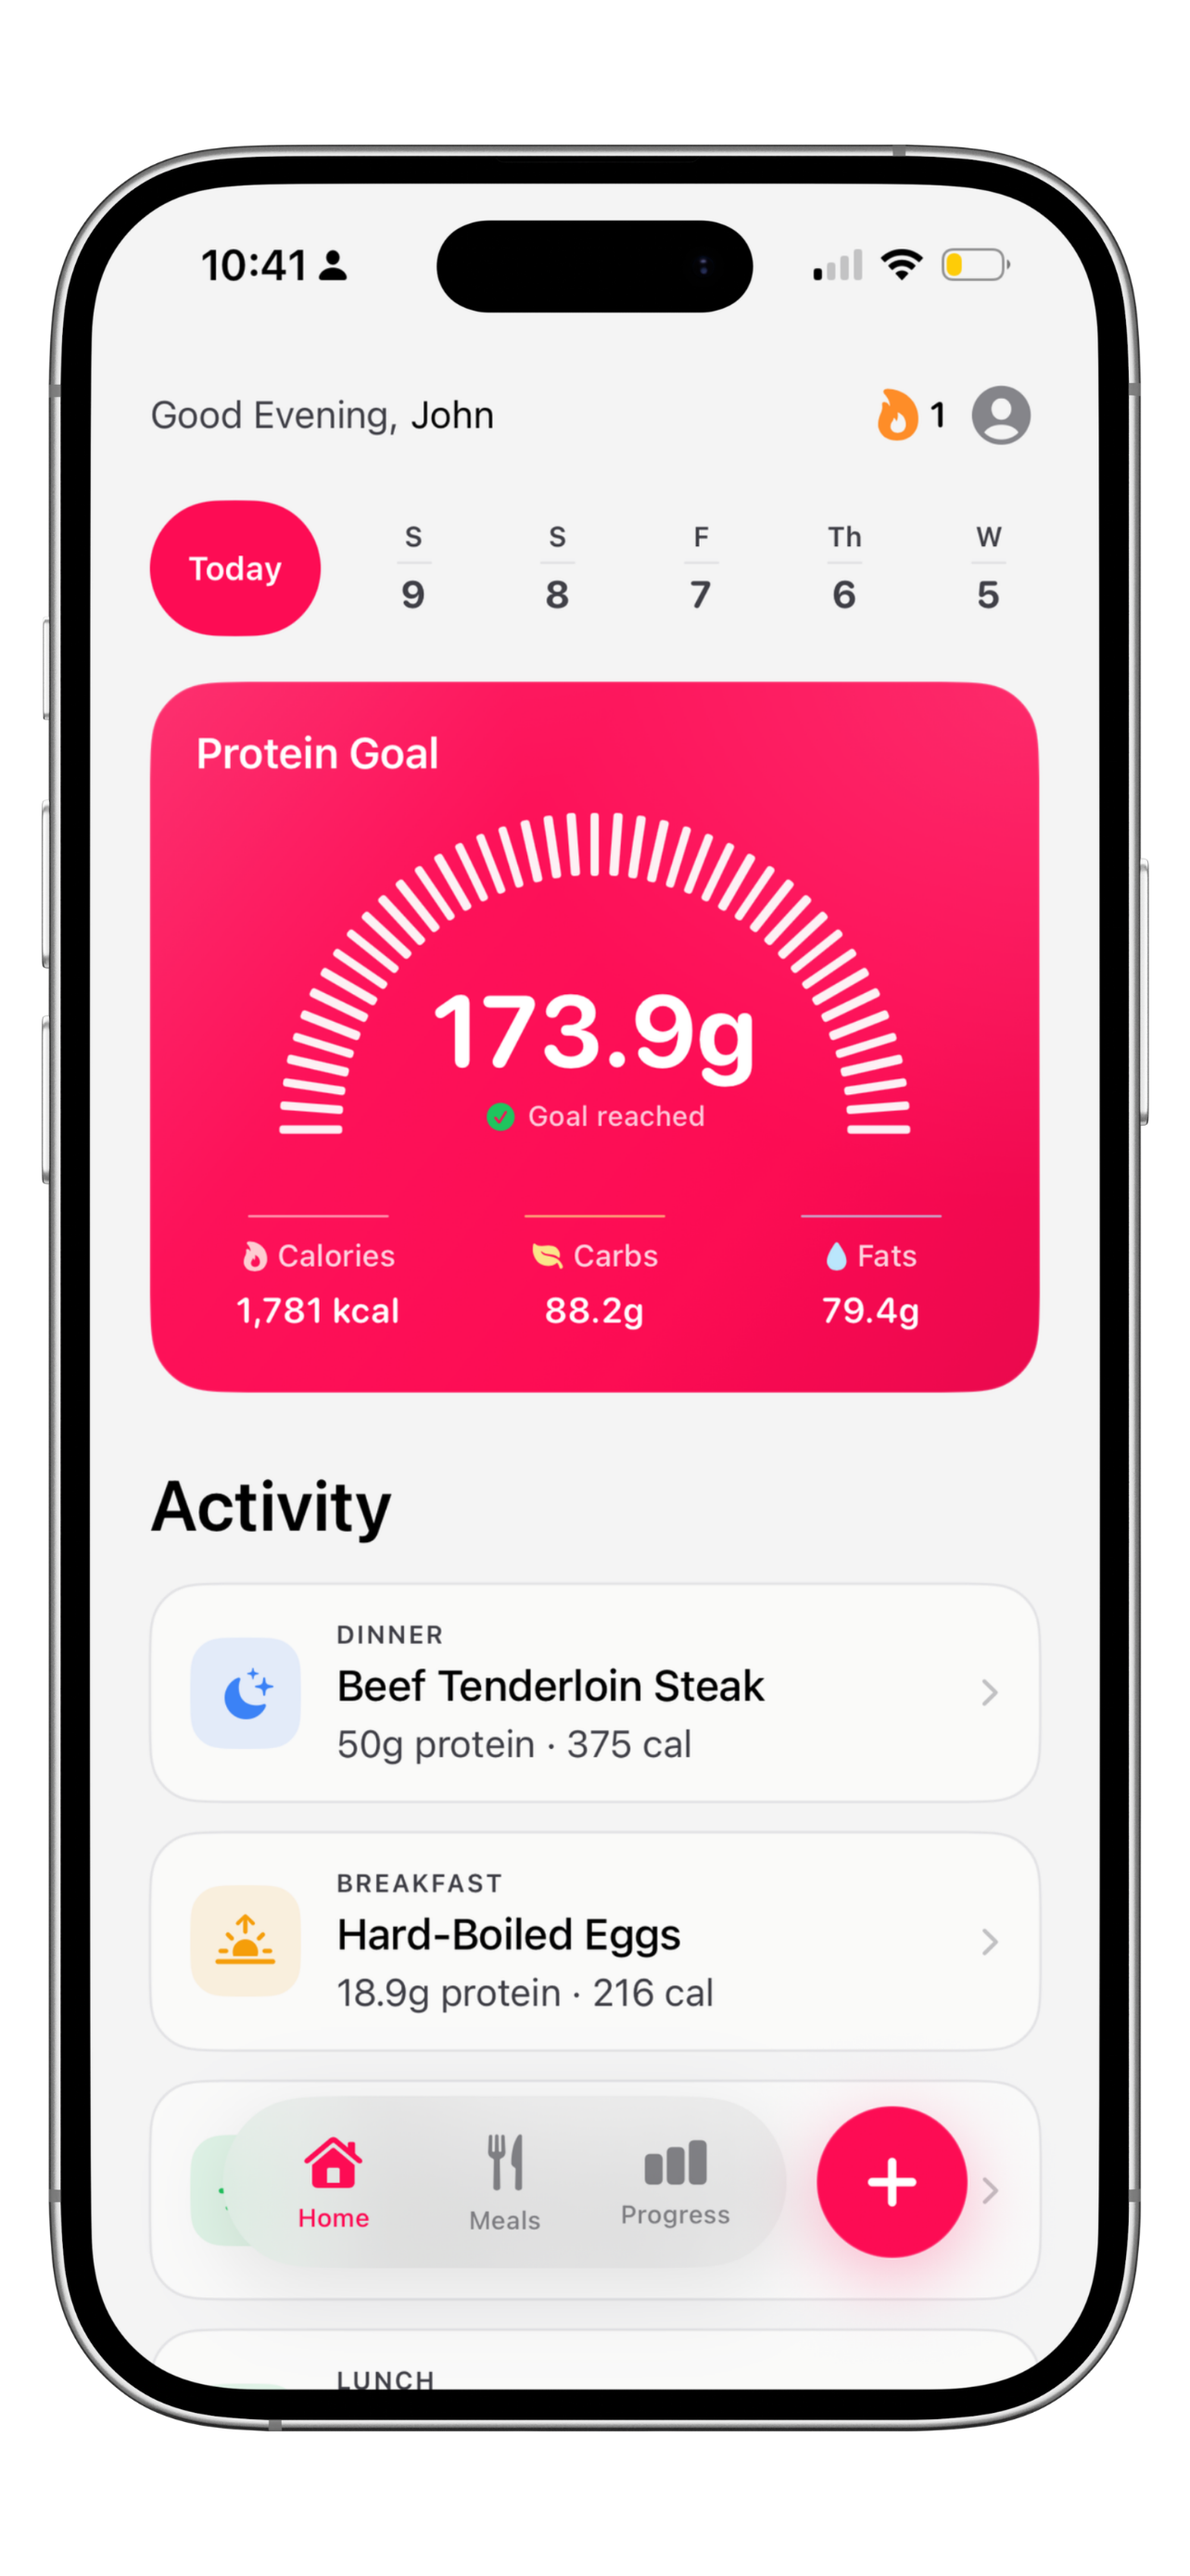
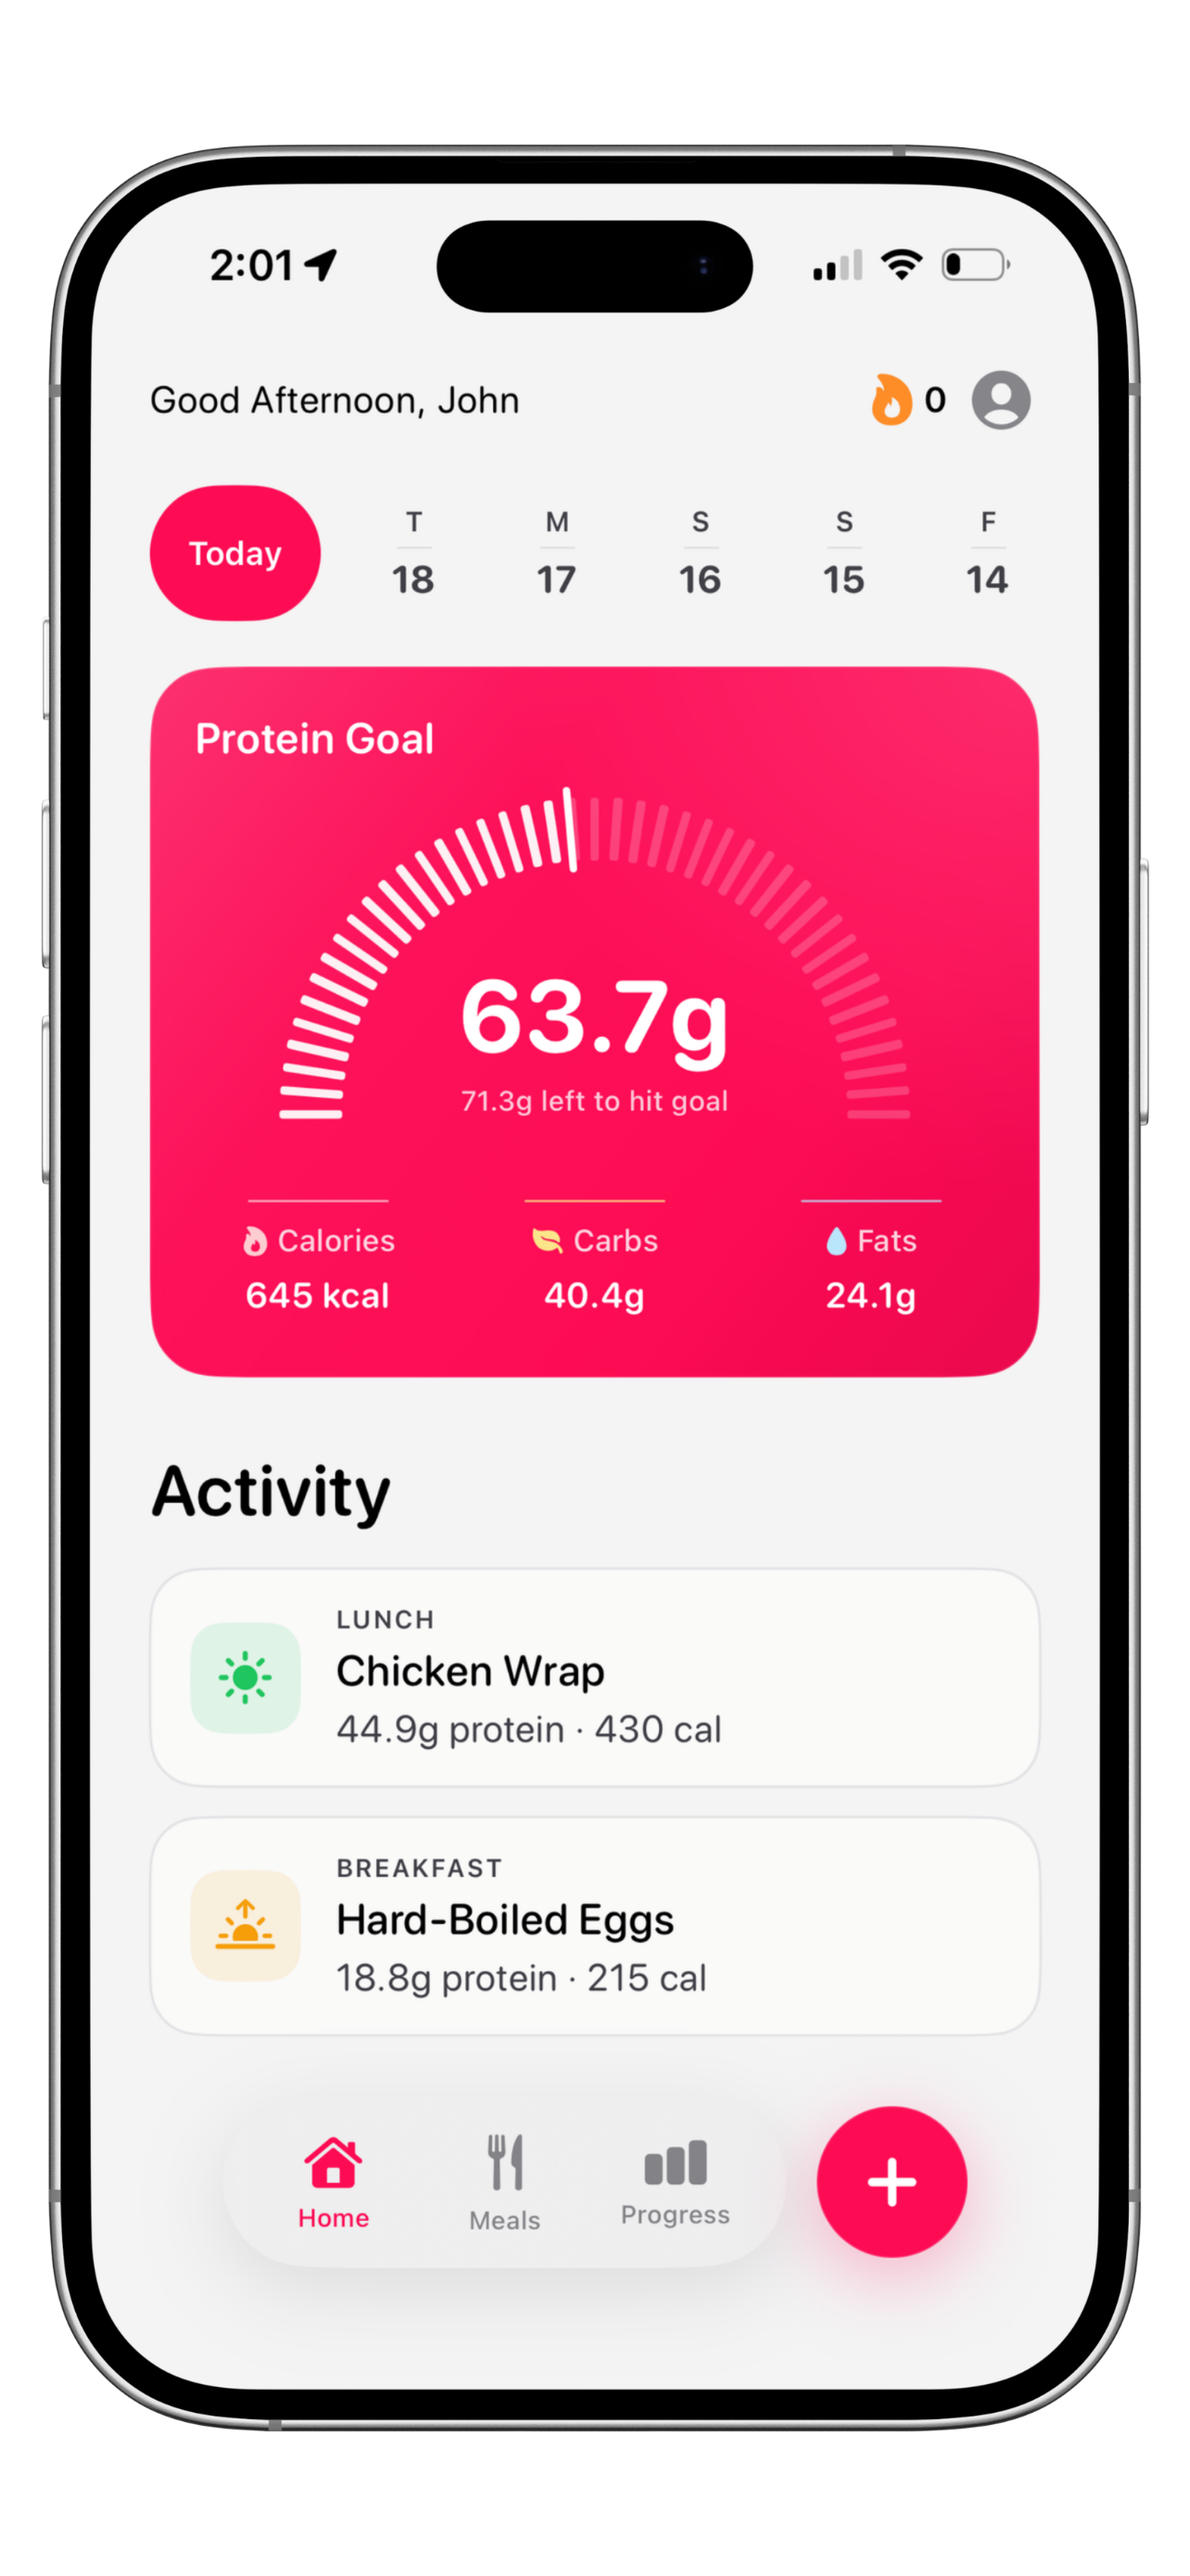
updated screenshots

diff --git a/ios_portfolio/src/app/page.tsx b/ios_portfolio/src/app/page.tsx
@@ -1,7 +1,9 @@
 import Image from "next/image";
 import kodiAiScreenshot from "../../public/kodi_ai.png";
+import kodiAiScreenshotTwo from "../../public/kodi_ai_2.png";
 import profilePhoto from "../../public/pfp.png";
 import proteinBuddyScreenshot from "../../public/protein_buddy.png";
+import proteinBuddyScreenshotTwo from "../../public/protein_buddy_2.png";
 import screenshotOne from "../../public/screenshot_1.png";
 import screenshotTwo from "../../public/screenshot_2.png";
 import { CursorGlow } from "./cursor-glow";
@@ -91,7 +93,7 @@ export default function Home() {
         <div className="phone-stage" aria-label="Protein tracking app previews">
           <div className="phone phone-back">
             <Image
-              src={screenshotOne}
+              src={screenshotTwo}
               alt="Progress screen of a protein tracking iPhone app"
               width={1284}
               height={2778}
@@ -101,7 +103,7 @@ export default function Home() {
           </div>
           <div className="phone phone-front">
             <Image
-              src={screenshotTwo}
+              src={proteinBuddyScreenshot}
               alt="Meals screen of a protein tracking iPhone app"
               width={1284}
               height={2778}
@@ -122,17 +124,24 @@ export default function Home() {
         </header>
 
         <article className="project-card project-protein">
-          <Image
-            className="project-screenshot"
-            src={proteinBuddyScreenshot}
-            alt="ProteinBuddy progress dashboard on an iPhone"
-            width={1284}
-            height={2778}
-            sizes="(max-width: 820px) 58vw, 290px"
-          />
+          <div className="project-screenshot-pair">
+            <Image
+              src={screenshotOne}
+              alt="ProteinBuddy progress dashboard on an iPhone"
+              width={1284}
+              height={2778}
+              sizes="(max-width: 820px) 58vw, 300px"
+            />
+            <Image
+              src={proteinBuddyScreenshotTwo}
+              alt="Another ProteinBuddy app screen on an iPhone"
+              width={1284}
+              height={2778}
+              sizes="(max-width: 820px) 58vw, 300px"
+            />
+          </div>
 
           <div className="project-content">
-            <span className="project-number" aria-hidden="true">01</span>
             <div className="project-kicker"><span /> 01 · Nutrition &amp; fitness</div>
             <h3>ProteinBuddy</h3>
             <p className="project-tagline">Hit your protein goals without the guesswork.</p>
@@ -166,17 +175,24 @@ export default function Home() {
         </article>
 
         <article className="project-card project-kodi">
-          <Image
-            className="project-screenshot"
-            src={kodiAiScreenshot}
-            alt="Kodi AI mobile application shown on an iPhone"
-            width={1284}
-            height={2778}
-            sizes="(max-width: 820px) 58vw, 290px"
-          />
+          <div className="project-screenshot-pair">
+            <Image
+              src={kodiAiScreenshotTwo}
+              alt="Another Kodi AI app screen on an iPhone"
+              width={1284}
+              height={2778}
+              sizes="(max-width: 820px) 58vw, 300px"
+            />
+            <Image
+              src={kodiAiScreenshot}
+              alt="Kodi AI mobile application shown on an iPhone"
+              width={1284}
+              height={2778}
+              sizes="(max-width: 820px) 58vw, 300px"
+            />
+          </div>
 
           <div className="project-content">
-            <span className="project-number" aria-hidden="true">02</span>
             <div className="project-kicker"><span /> 02 · Education</div>
             <h3>Kodi AI</h3>
             <p className="project-tagline">Build confidence every time you speak.</p>

diff --git a/ios_portfolio/src/app/globals.css b/ios_portfolio/src/app/globals.css
@@ -497,6 +497,28 @@ h1 em {
   filter: drop-shadow(0 26px 24px rgba(20, 36, 72, 0.22));
 }
 
+.project-screenshot-pair {
+  display: flex;
+  align-self: center;
+  justify-self: center;
+  align-items: center;
+  justify-content: center;
+  width: 100%;
+}
+
+.project-screenshot-pair img {
+  display: block;
+  width: min(21vw, 300px);
+  height: auto;
+  filter: drop-shadow(0 22px 20px rgba(20, 36, 72, 0.2));
+}
+
+.project-screenshot-pair img + img {
+  z-index: 1;
+  margin-left: clamp(-5.5rem, -6vw, -3rem);
+  transform: translateY(1rem);
+}
+
 .project-content {
   position: relative;
   display: flex;
@@ -504,19 +526,6 @@ h1 em {
   flex-direction: column;
   justify-content: center;
   padding: clamp(3rem, 6vw, 6.5rem);
-}
-
-.project-number {
-  position: absolute;
-  top: -1.5rem;
-  right: 2rem;
-  color: var(--blue);
-  font-size: clamp(9rem, 17vw, 16rem);
-  font-weight: 800;
-  letter-spacing: -0.08em;
-  line-height: 1;
-  opacity: 0.055;
-  user-select: none;
 }
 
 .project-kicker {
@@ -565,12 +574,7 @@ h1 em {
   background: #ff0a54;
 }
 
-.project-protein .project-number {
-  color: #ff0a54;
-}
-
-.project-kodi .project-tagline,
-.project-kodi .project-number {
+.project-kodi .project-tagline {
   color: var(--kodi-blue);
 }
 
@@ -1165,10 +1169,6 @@ h1 em {
     grid-template-columns: 1fr;
   }
 
-  .project-number {
-    display: none;
-  }
-
   .project-content {
     padding: 4rem 3rem;
   }
@@ -1297,6 +1297,24 @@ h1 em {
   .project-screenshot {
     width: min(58vw, 280px);
     margin: 2rem auto 0;
+  }
+
+  .project-screenshot-pair {
+    margin: 2rem auto 0;
+    padding-inline: 0.75rem;
+  }
+
+  .project-screenshot-pair img {
+    width: min(58vw, 280px);
+  }
+
+  .project-screenshot-pair img:first-child {
+    display: none;
+  }
+
+  .project-screenshot-pair img + img {
+    margin-left: 0;
+    transform: none;
   }
 
   .project-content {
